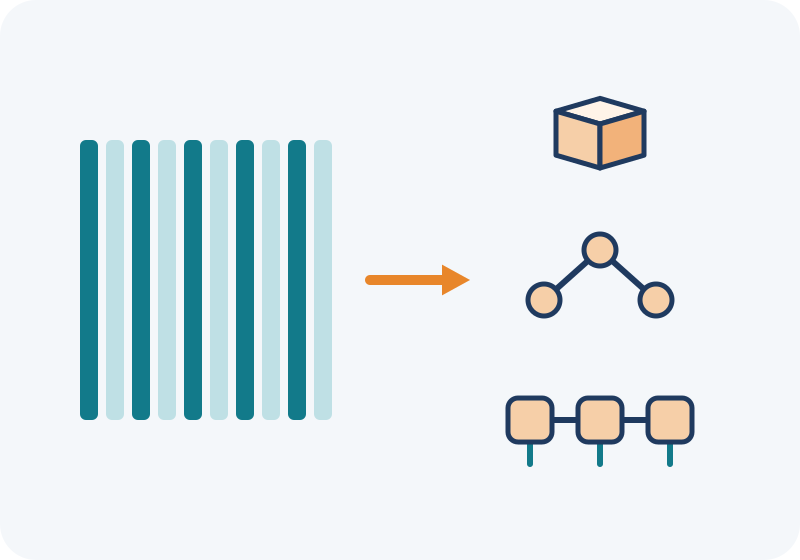
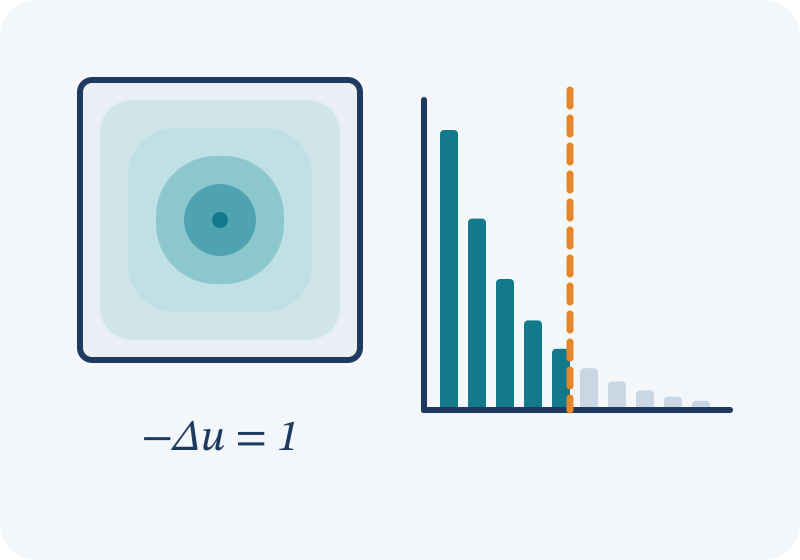
Tutorials: clearer thumbnails for the truncation, Helmholtz-Hodge and QTT solver tutorials [docs]

Changed region(s): [[0.0938, 0.1214, 0.9062, 0.85], [0.7812, 0.4857, 0.8438, 0.5768]]

diff --git a/doc/_ext/gallery_thumbnails.py b/doc/_ext/gallery_thumbnails.py
@@ -10,8 +10,8 @@ After sphinx-gallery has generated the galleries, this extension copies
 each drawing over the thumbnail of its example, and over the thumbnail of
 the original tutorial the example comes from, and over the thumbnail of a
 Use Case of the same name (``use_cases/<name>.py``) and of its original
-tutorial. A tutorial with no example nor Use Case has its own drawing,
-named after its script (``tutorial_<...>.png``). The scripts are not
+tutorial. A tutorial can also have its own drawing, named after its script
+(``tutorial_<...>.png``), which then takes precedence. The scripts are not
 changed, so the gallery cache is not invalidated.
 """
 
@@ -29,6 +29,12 @@ def _thumb(src, gallery, folder, stem):
     return images / f"sphx_glr_{stem}_thumb.png"
 
 
+def _own_drawing(src, script):
+    """Whether the tutorial folder/stem has a drawing of its own."""
+    stem = script.rpartition("/")[2]
+    return (src / THUMB_DIR / f"{stem}.png").is_file()
+
+
 def _targets(src):
     """Pairs (drawing, thumbnail to replace)."""
     repo = src.parent
@@ -40,7 +46,7 @@ def _targets(src):
             pairs.append((drawing, _thumb(src, "examples", section, name)))
             # The original tutorial named in the docstring of the example.
             match = ORIGIN.search(script.read_text(encoding="utf-8"))
-            if match:
+            if match and not _own_drawing(src, match.group(1)):
                 folder, _, stem = match.group(1).rpartition("/")
                 thumb = _thumb(src, "tutorials", folder, stem)
                 pairs.append((drawing, thumb))
@@ -50,7 +56,7 @@ def _targets(src):
             pairs.append((drawing, images / f"sphx_glr_{name}_thumb.png"))
             # The original tutorial of the Use Case.
             match = ORIGIN.search(use_case.read_text(encoding="utf-8"))
-            if match:
+            if match and not _own_drawing(src, match.group(1)):
                 folder, _, stem = match.group(1).rpartition("/")
                 pairs.append((drawing, _thumb(src, "tutorials", folder, stem)))
         # A tutorial with no example: the drawing has the name of the script.
